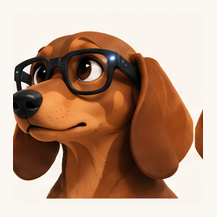
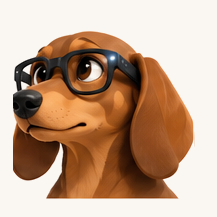
Poses Dashhound nettoyées + titre « Dashhound · Rewind »
- scripts/clean_poses.swift : fond ramené exactement au papier de la MascotCard (#FAF7F2, fondu
  doux) → plus de cadre visible ; fragments de la planche voisine effacés (sit-alert — la pose
  affichée pendant l'enregistrement —, hero-run, face-tired, face-curious). Originaux dans
  design/source/poses-brutes/.
- titre de l'écran : nom complet du produit

Changed region(s): [[0.8848, 0.4977, 0.9401, 0.7465]]

diff --git a/scripts/clean_poses.swift b/scripts/clean_poses.swift
@@ -1,0 +1,43 @@
+// Nettoie les poses Dashhound : fond quasi blanc ramené exactement à la couleur de la MascotCard
+// (#FAF7F2, fondu doux pour ne pas créer de contour) et fragments d'illustrations voisines effacés.
+// Usage : swift scripts/clean_poses.swift design/source/poses-brutes design/poses
+import AppKit
+
+let paper: (Double, Double, Double) = (250, 247, 242)  // Palette.mascotPaper
+/// Zones à effacer (coordonnées image, origine en haut à gauche) — fragments de la planche d'origine.
+let fragments: [String: [(x0: Int, y0: Int, x1: Int, y1: Int)]] = [
+  "dashhound-sit-alert.png": [(155, 0, 283, 48)],
+  "dashhound-face-tired.png": [(195, 108, 217, 166)],
+  "dashhound-face-curious.png": [(0, 18, 46, 42)],
+  "dashhound-hero-run.png": [(505, 585, 679, 679)],
+]
+
+let src = CommandLine.arguments[1], dst = CommandLine.arguments[2]
+for file in try! FileManager.default.contentsOfDirectory(atPath: src).filter({ $0.hasSuffix(".png") }).sorted() {
+  let input = NSBitmapImageRep(data: try! Data(contentsOf: URL(fileURLWithPath: "\(src)/\(file)")))!
+  let w = input.pixelsWide, h = input.pixelsHigh
+  let out = NSBitmapImageRep(
+    bitmapDataPlanes: nil, pixelsWide: w, pixelsHigh: h, bitsPerSample: 8, samplesPerPixel: 4, hasAlpha: true,
+    isPlanar: false, colorSpaceName: .deviceRGB, bytesPerRow: w * 4, bitsPerPixel: 32)!
+  let data = out.bitmapData!
+  var changed = 0
+  for y in 0..<h {
+    for x in 0..<w {
+      let c = input.colorAt(x: x, y: y)!.usingColorSpace(.deviceRGB)!
+      var r = Double(c.redComponent) * 255, g = Double(c.greenComponent) * 255, b = Double(c.blueComponent) * 255
+      let inFragment = fragments[file]?.contains { x >= $0.x0 && x < $0.x1 && y >= $0.y0 && y < $0.y1 } ?? false
+      let dist = max(abs(r - paper.0), abs(g - paper.1), abs(b - paper.2))
+      if inFragment || dist <= 10 {
+        (r, g, b) = paper
+        changed += 1
+      } else if dist < 20 {
+        let t = (dist - 10) / 10  // fondu vers le papier près du fond
+        r = paper.0 + t * (r - paper.0); g = paper.1 + t * (g - paper.1); b = paper.2 + t * (b - paper.2)
+      }
+      let i = (y * w + x) * 4
+      data[i] = UInt8(r.rounded()); data[i + 1] = UInt8(g.rounded()); data[i + 2] = UInt8(b.rounded()); data[i + 3] = 255
+    }
+  }
+  try! out.representation(using: .png, properties: [:])!.write(to: URL(fileURLWithPath: "\(dst)/\(file)"))
+  print(file, "\(w)x\(h)", "pixels ramenés au papier : \(changed * 100 / (w * h)) %", fragments[file] != nil ? "· fragment effacé" : "")
+}

diff --git a/Dashcam/ContentView.swift b/Dashcam/ContentView.swift
@@ -55,7 +55,7 @@ struct ContentView: View {
       .scrollContentBackground(.hidden)
       .background(Palette.bg)
       .safeAreaInset(edge: .bottom) { dashcamBar }
-      .navigationTitle("Dashhound")
+      .navigationTitle("Dashhound · Rewind")
       .toolbar {
         Button { showSettings = true } label: { Image(systemName: "gearshape") }
           .accessibilityLabel("Réglages")
